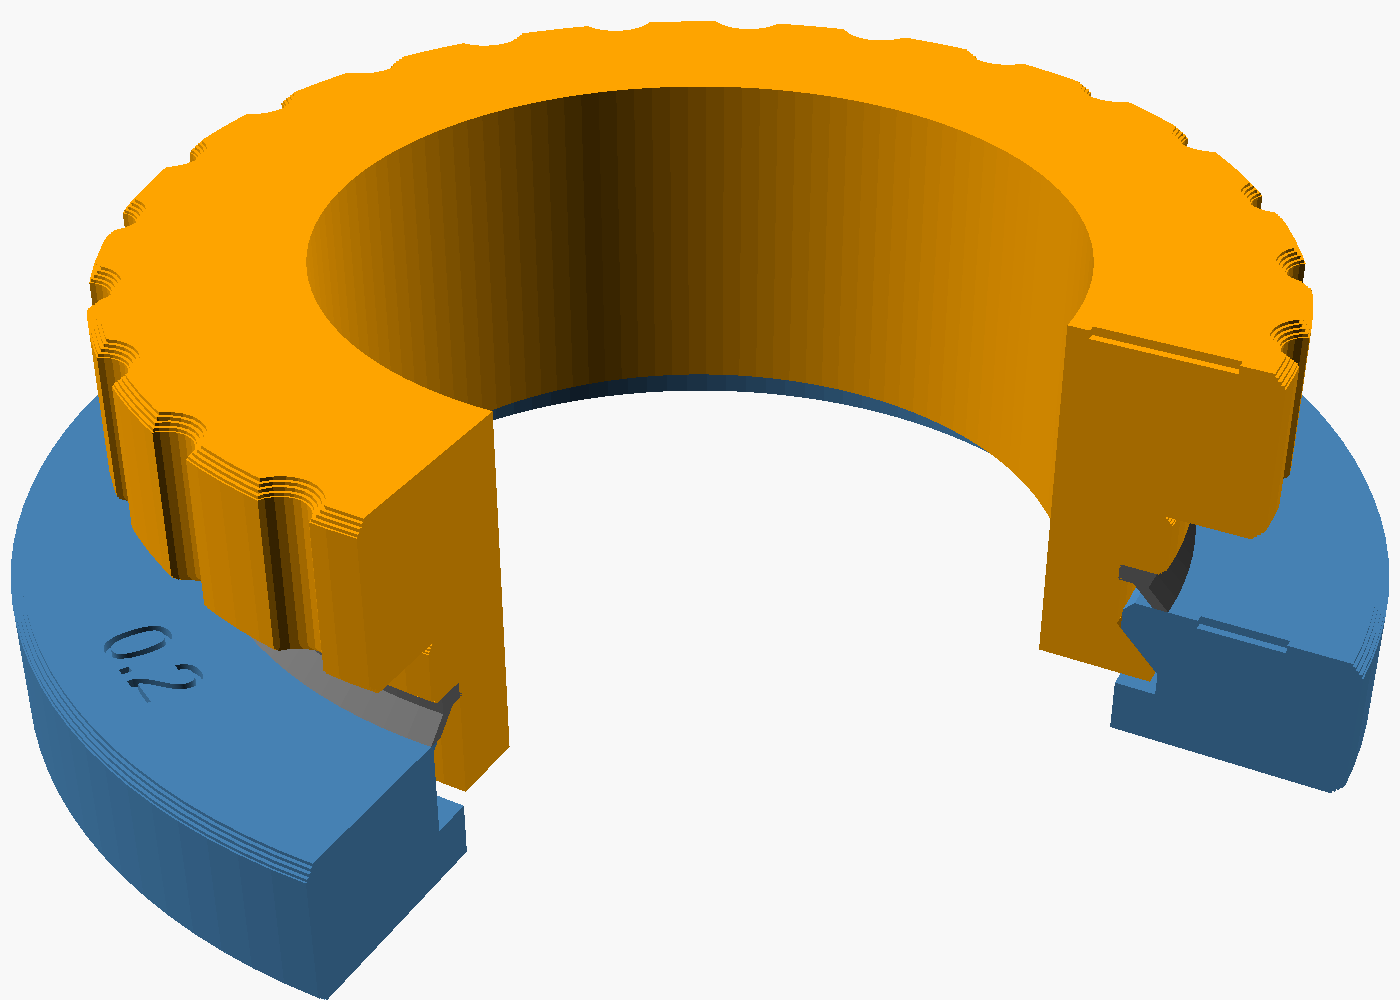
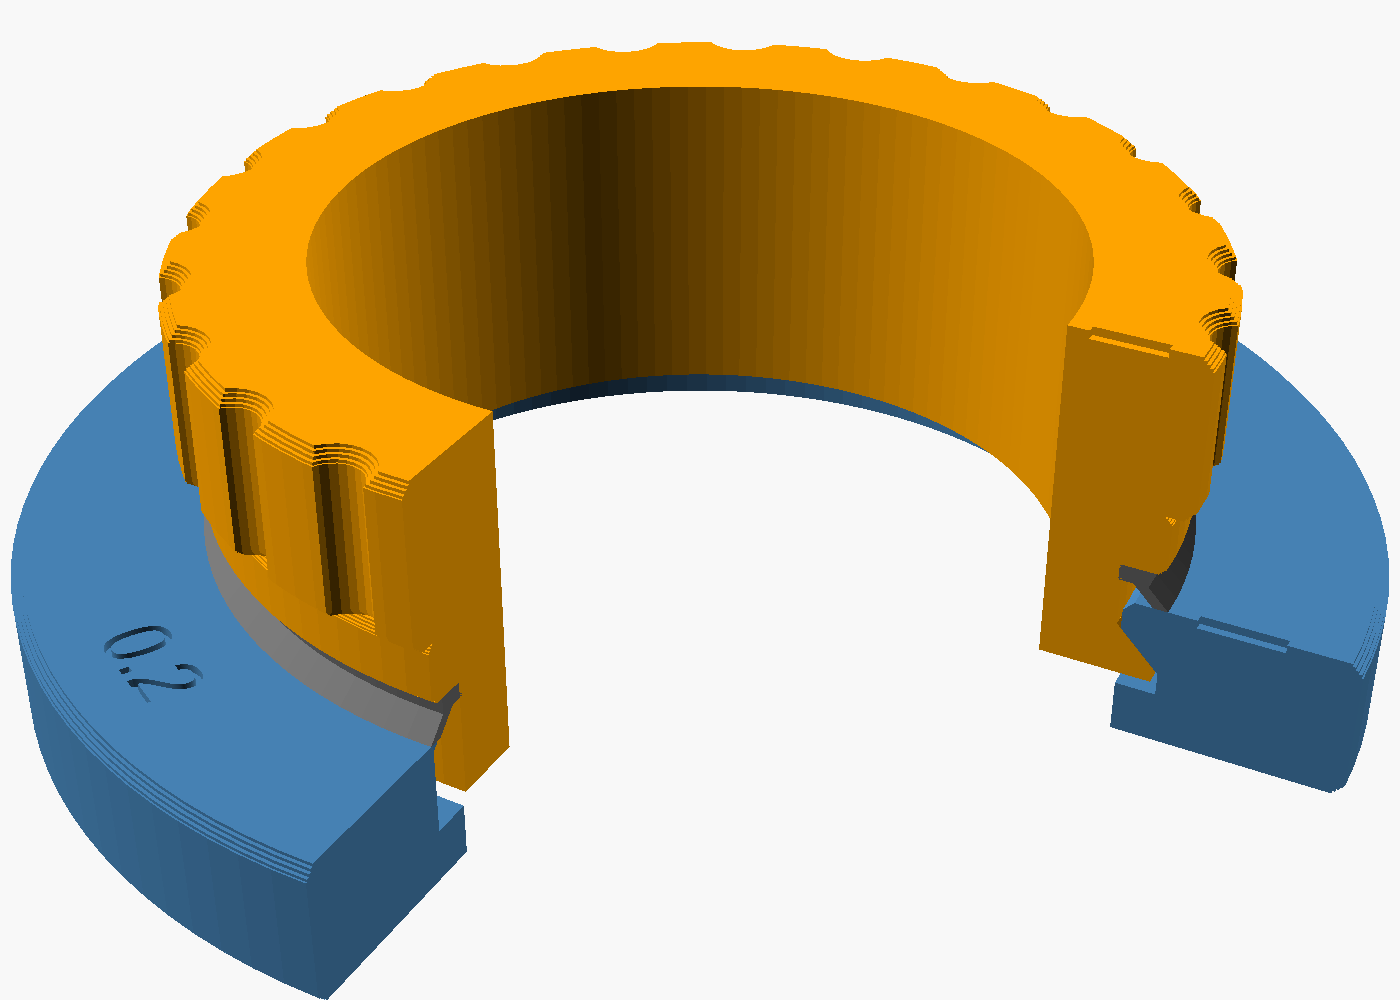
70 mm standard and BQ42 bayonet option for plates and adapters
- standards: "70mm" cage (Ø6 rods at 70, 83 mm plate), OPTSYS_BAYONETS
  with BQ42 (the bayonet test coupon values), bayonet_named().
- lens_cage_plate: standard 70mm (57 recess floor, Ø5 magnets at ±23.3,
  Ø48 lens / M52), lens_mount = bayonet with bq_detent; presets
  "70 mm QM42 receptor" and "70 mm BQ42 bayonet receptor".
- qm_adapter: qm = BQ42 (spigot with lugs, no groove), part = spring
  (TPU ring); presets for L39 BQ42 and the spring.
- bayonet_test: grip ring Ø48 (about an El-Nikkor body) instead of Ø54.
Existing presets give the same CSG as before.

Claude-Session: https://claude.ai/code/session_01HjQeQpPvuoKaJmpqDYqwnC

Changed region(s): [[0.0614, 0.0, 0.9521, 0.713]]

diff --git a/parts/cage_plates/README.md b/parts/cage_plates/README.md
@@ -13,8 +13,9 @@ An OpenSCAD lens mount plate for a rod-based optical cage system. Each plate hol
 - **Three standards** from one file:
   - **100 mm**: 100 × 100 mm plate, Ø8 rods at 85 mm spacing, Ø60 lens (M64×1.5 thread).
   - **60 mm**: 73 × 73 mm plate, Ø6 rods at 60 mm spacing (same rod size and spacing as the Thorlabs 60 mm cage system), Ø38.1 (1.5") lens (M43×1.5 thread). Without the bellows recess it takes a Ø50.8 (2") lens.
+  - **70 mm** (OptSys): 83 × 83 mm plate, Ø6 rods at 70 mm spacing: the 60 mm layout grown 5 mm in radius (57 mm recess floor, Ø5 magnets at ±23.3). Ø48 lens (M52×1.5 thread), or a QM42 / BQ42 bayonet receptor with room for the bayonet spring ring inside the bellows recess.
   - **50 mm**: 63 × 63 mm plate, Ø6 rods at 50 mm spacing (the user's epi-illuminator cage), Ø25.4 (1") lens (M30×1.5 thread), or a QM42-EPI receptor.
-- **Lens mount** (`lens_mount`): `thread` (lens + retaining ring) or `qm`, a receptor for QM quick-mount adapters: Ø42 bore with `qm_bore_clearance` (diametral, default 0.3), M4 lock screw with a captive nut on the side you choose. The seat face is placed so the lock screw is centered in the plate thickness: with `QM42` (Ø46 flange) on a 10 mm plate it is the front recess floor (1.5 mm) of the 60 and 100 mm plates, or a Ø46.6 × 1.5 flange pocket when the front face has no recess.
+- **Lens mount** (`lens_mount`): `thread` (lens + retaining ring), `bayonet` (BQ42, experimental: push-and-turn receptor, see below) or `qm`, a receptor for QM quick-mount adapters: Ø42 bore with `qm_bore_clearance` (diametral, default 0.3), M4 lock screw with a captive nut on the side you choose. The seat face is placed so the lock screw is centered in the plate thickness: with `QM42` (Ø46 flange) on a 10 mm plate it is the front recess floor (1.5 mm) of the 60 and 100 mm plates, or a Ø46.6 × 1.5 flange pocket when the front face has no recess.
 - **V rod seats**: the clamp arm pushes the rod into a V on the body side, so it touches two lines along the whole thickness and the plate cannot tilt on the rod. `rod_v_angle` (default 100°) trades centering stiffness for snap-in effort; the console prints the snap interference. (The earlier round seat with clearance was dropped: the rod touched it on a single line and the plate could rock around it.)
 - **Thread clearances**: `thread_clearance` (diametral, 0.2) plus `thread_z_clearance` (axial, 0.25), both split between plate and ring: about 0.48 mm of axial play while keeping the full radial engagement. Printed flat, the 60° thread flanks are only 30° from the bed, so layer steps and sag land on them: radial clearance alone opens the flanks by half its value and loosens the thread. The ring has 45° chamfers on both ends (`ring_chamfer`) against the elephant foot.
 - **Lens-driven geometry**: set the lens diameter and the aperture, seat cone, internal thread and retaining ring follow automatically.
@@ -25,6 +26,12 @@ An OpenSCAD lens mount plate for a rod-based optical cage system. Each plate hol
 - **Retaining ring** generated to match the thread.
 - **Interference checks**: when a parameter change makes features collide, OpenSCAD stops with a message saying what to adjust.
 
+### Bayonet receptor (`lens_mount = bayonet`, experimental)
+
+Ø42.4 bore with 3 notches, a groove under a 45° ledge and a detent pocket at the end of a 45° clockwise turn ([`lib/bayonet.scad`](../../lib/bayonet.scad), interface `BQ42` in `lib/standards.scad`, the same values as the [bayonet test coupon](../test_coupons/README.md)). The seat face is the front recess floor (or the front face); the adapter flange stays 1.8 mm above it on a printed TPU spring ring ([`parts/quick_mount`](../quick_mount/README.md), `part = spring`). `bq_detent` sets the pocket depth (0.35 by default: use the one you chose with the coupon). No screw or nut.
+
+Fits the 70 and 100 mm plates with recesses. On the 60 mm plate the groove (Ø46.2) needs Ø4 magnets and the spring ring (Ø47.1) does not fit on the 47 mm recess floor: disable `recess_front` there.
+
 ## Usage
 
 1. Open `lens_cage_plate.scad` from this folder. It loads the shared library from `../../lib`, so keep the repository structure intact; `lens_cage_plate.json` must stay next to it.
@@ -32,6 +39,7 @@ An OpenSCAD lens mount plate for a rod-based optical cage system. Each plate hol
    - `50 mm standard (Ø6 rods at 50 mm, 1 in lens)`: M30 thread and retaining ring, no recess
    - `50 mm QM42 receptor, V rod seats`: QM42-EPI receptor (the user's EPI plates), no recess
    - `60 mm QM42 receptor, V rod seats`: recess on both faces, Ø4 blind magnets, M4 holes Ø4.2
+   - `70 mm QM42 receptor, V rod seats` / `70 mm BQ42 bayonet receptor, V rod seats`: recess on both faces, Ø5 blind magnets
    - `100 mm QM42 receptor, V rod seats`: recess on both faces
 
    All with the post mount on the bottom side. For a threaded 60 or 100 mm plate, pick the standard and set `lens_mount = thread`.
@@ -51,7 +59,7 @@ An OpenSCAD lens mount plate for a rod-based optical cage system. Each plate hol
 - Clamp screws: 4 × M3 screw + M3 nut (length printed in the console, M3 × 10 or 12).
 - Post mount: 1 × M4 nut + M4 setscrew stud (length printed in the console).
 - QM receptor: 1 × M4 nut + M4 setscrew (length printed in the console).
-- Magnets: Ø6 (100 mm standard) or Ø5 (60 mm standard), when the recess is enabled.
+- Magnets: Ø6 (100 mm standard) or Ø5 (60 and 70 mm standards), when the recess is enabled.
 
 ## Files
 

diff --git a/README.md b/README.md
@@ -8,8 +8,8 @@ A family of parametric, 3D-printable optomechanical parts written in OpenSCAD, o
 
 | Part | Folder | Standards | Description |
 |---|---|---|---|
-| Lens cage plate | [`parts/cage_plates`](parts/cage_plates/README.md) | OptSys 50, 60 mm, OptSys 100 | Lens mount with retaining-ring thread or QM quick-mount receptor, magnetic bellows recess, compliant rod clamps with V rod seats, engraved label, optional post mount |
-| QM lens adapter | [`parts/quick_mount`](parts/quick_mount/README.md) | QM42, QM42-EPI | Quick-mount adapter for enlarger lenses (L39), objectives (RMS, M25, ...) or M42 / T2 bellows, locked in a QM receptor plate by one screw |
+| Lens cage plate | [`parts/cage_plates`](parts/cage_plates/README.md) | OptSys 50, 60 mm, OptSys 70, OptSys 100 | Lens mount with retaining-ring thread, QM quick-mount receptor or BQ bayonet receptor (experimental), magnetic bellows recess, compliant rod clamps with V rod seats, engraved label, optional post mount |
+| QM lens adapter | [`parts/quick_mount`](parts/quick_mount/README.md) | QM42, QM42-EPI, BQ42 | Quick-mount adapter for enlarger lenses (L39), objectives (RMS, M25, ...) or M42 / T2 bellows, locked in a QM receptor plate by one screw, or a bayonet version (push and turn) with its TPU spring ring |
 | Rail carriage | [`parts/rails`](parts/rails/README.md) | 2020 V-slot | Rack-and-pinion carriage on PTFE tubes, XY (stackable) and Z versions, with pinion, knob and rack |
 | Test coupons | [`parts/test_coupons`](parts/test_coupons/README.md) | Ø6 / Ø8 rods, lens threads, QM42 | Rod seat test (V seats vs round seat vs tight holes), internal thread test rings (L39 enlarger, RMS, M25 objectives) and bayonet quick-mount test (receptors, adapter, TPU spring rings) |
 
@@ -23,6 +23,7 @@ Defined once in [`lib/standards.scad`](lib/standards.scad) and used by every par
 | `30mm` | 30 mm | Ø6 | SM1 (1.035"-40) | 41 mm |
 | `50mm` (OptSys) | 50 mm | Ø6 | QM42-EPI quick mount | 63 mm |
 | `60mm` | 60 mm | Ø6 | SM2 (2.035"-40) | 71.1 mm |
+| `70mm` (OptSys) | 70 mm | Ø6 | QM42 / BQ42 quick mounts | 83 mm |
 | `100mm` (OptSys) | 85 mm | Ø8 | M64×1.5 | 100 mm |
 
 The 16/30/60 mm rows match the Thorlabs cage standards. Extrusions (`OPTSYS_EXTRUSIONS`, currently `2020V` = 2020 V-slot) and ball bearings (`OPTSYS_BEARINGS`, MR84ZZ to 608ZZ) are defined there too. Metric posts are Ø12.7 mm with M4 on top and M6 at the bottom; metric breadboards use M6 holes on a 25 mm grid.

diff --git a/parts/test_coupons/README.md b/parts/test_coupons/README.md
@@ -61,7 +61,7 @@ How it works: the adapter has 3 lugs at the end of its spigot. Push it into the 
 | Part | Count | Variants | Print |
 |---|---|---|---|
 | Receptor disc | one per value of `detents` (default 0.2, 0.35, 0.5) | detent pocket depth, engraved on the seat face | PLA, seat face up, 0.08–0.12 mm layers |
-| Adapter | 1 | lugs + flange + a fluted grip ring standing in for the lens | PLA, grip down |
+| Adapter | 1 | lugs + flange + a fluted grip ring standing in for the lens (Ø48 × 8, about an El-Nikkor body; `grip_d`, `grip_h`) | PLA, grip down |
 | Spring ring | one per value of `spring_t` (default 0.5, 0.7, 0.9) | lip thickness; 1, 2 or 3 small notches in the bore | TPU 95A, base ring down |
 
 **Test:**
@@ -73,4 +73,4 @@ How it works: the adapter has 3 lugs at the end of its spigot. Push it into the 
 
 Rough force estimate (TPU 95A, E ≈ 25–50 MPa, very uncertain): lip 0.7 ≈ 10–30 N locked, about twice that pushed in to turn. Lip force goes with the cube of the thickness.
 
-Sizes: lug tips Ø45.6 and groove Ø46.2 with the defaults (`lug_depth` 1.8), which fit inside the bellows magnets of the 60 mm plates (from r 23.4). The receptor is 7 mm thick, the web of a 10 mm plate with 1.5 mm recesses.
+Sizes: lug tips Ø45.6 and groove Ø46.2 with the defaults (`lug_depth` 1.8). The same values are the `BQ42` interface of the plates and adapters (`lens_mount = bayonet`, `qm = BQ42`); it fits the 70 and 100 mm plates, and the 60 mm one only with Ø4 magnets and no front recess. The receptor is 7 mm thick, the web of a 10 mm plate with 1.5 mm recesses.

diff --git a/parts/quick_mount/README.md b/parts/quick_mount/README.md
@@ -60,3 +60,9 @@ Receptor options (section *Lens mount*): `qm_bore_clearance` (diametral clearanc
 
 - Receptor: one M4 nut and one M4 setscrew (length printed in the console: M4 × 14 on the 50 mm plate, M4 × 20 on the 60 mm).
 - Adapter: none.
+
+## Bayonet adapters (`qm = BQ42`, experimental)
+
+Same Ø42 spigot and Ø46 × 3 flange, with 3 lugs at the end of the spigot (45° faces) instead of the lock-screw groove. Push the adapter into a bayonet receptor (`lens_cage_plate` with `lens_mount = bayonet`), turn it 45° clockwise (seen from the front) until it clicks; push in and turn back to release. It rides 1.8 mm above the seat face on a TPU spring ring: print one per adapter with `part = spring` (`spring_t` = lip thickness, choose it with `parts/test_coupons/bayonet_test`), base ring down, and slip it onto the spigot against the flange.
+
+Without the groove, female threads can go down into the spigot: an L39 lens rests on the flange top (register 4.8 mm above the receptor seat face). Clocking: 3 positions (one per lug). Presets: `L39 enlarger lens (BQ42 bayonet)`, `BQ42 spring ring (TPU)`.
